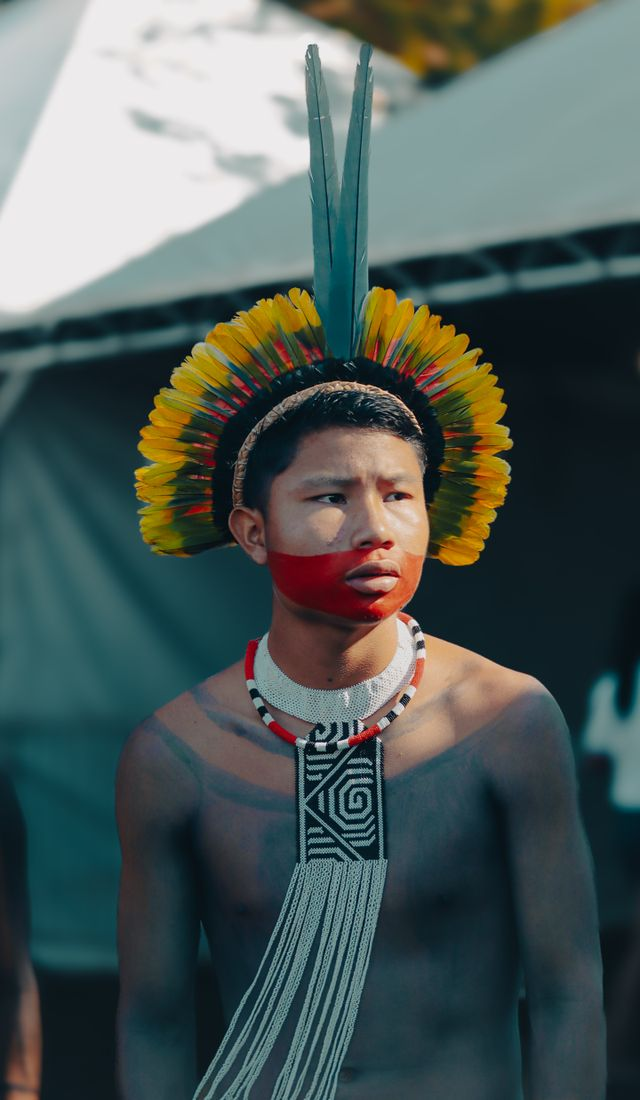
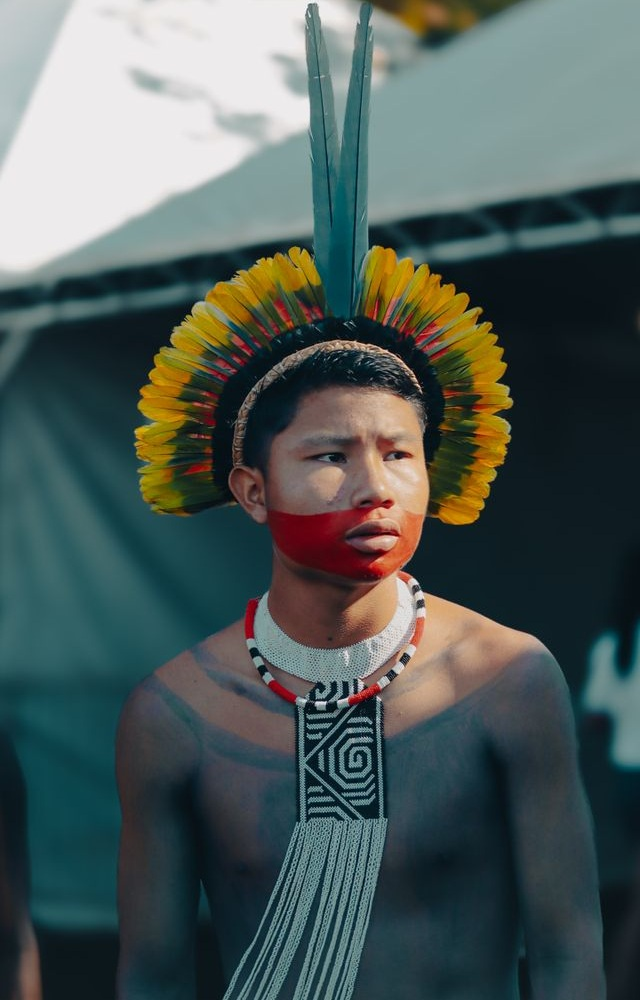
Att

diff --git a/estilos/style.css b/estilos/style.css
@@ -2,9 +2,8 @@
 
 body { 
     padding: 0;
-    margin: 0;
-    box-sizing: border-box;
     margin: 0 50px 0 50px;
+    box-sizing: border-box;
     font-family: system-ui, -apple-system, BlinkMacSystemFont, 'Segoe UI', Roboto, Oxygen, Ubuntu, Cantarell, 'Open Sans', 'Helvetica Neue', sans-serif;
 }
 
@@ -42,12 +41,14 @@ section {
 }
 
 #imagemprincipal { 
-    display: flex;
     border: 1px solid white;
     border-radius: 20px;
 }
 
 #imagemprincipal > img { 
+    max-width: 100%;
+    height: auto;
+    display: block;
     border-radius: 20px;
 }
 
@@ -80,6 +81,8 @@ section {
 }
 
 .fotosfinais > img { 
+    max-width: 100%;
+    height: auto;
     border: 1px solid lightgray;
     border-radius: 20px;
     margin-bottom: 10px;
@@ -103,42 +106,91 @@ footer {
     align-items: center;
 }
 
-@media screen and (min-width: 768px) and (max-width: 1024px) {
+@media screen and (max-width: 1300px) {
     body { 
-        margin: 0px 20px 0px 20px;
+        margin: 25px;
     }
+    header { 
+        font-size: 0.8em;
+    }
+
+    #destaquesemana { 
+        font-size: 0.8em;
+        width: 160px;
+    }
+
+    #textoprincipal > h1 { 
+        font-size: 25px;
+    }
+
+    #textoprincipal > p { 
+        font-size: 17px;
+    }
+
+    #textoprincipal > h4 { 
+        font-size: 15px;
+    }
+
+    .fotosfinais > img { 
+        width: 250px;
+        height: 350px;
+    }
+}
+
+@media screen and (max-width: 640px) {
+
+    body { 
+        margin: 10px;
+    }
+
     header { 
         font-size: 0.9em;
     }
 
     #destaquesemana { 
-        font-size: 0.9em;
-        width: 180px;
+        font-size: 12px;
+        width: 150px;
     }
 
-    #nomeprincipal, #menu {
-        margin: 0px 10px 0px 10px;
+    #textoprincipal > h1 { 
+        font-size: 22px;
     }
 
-    #imagemprincipal { 
-        content: url('../imagens/fotodestaquepequena.jpg');
-        width: 720px;
-    }
-
-    .fotosfinais img { 
-        width: 210px;
-        height: 300px;  
-    }
-
-    #textoprincipal h1 { 
-        font-size: 1.6em;
-    }
-    
     #textoprincipal > p { 
-        font-size: 1.3em;
+        font-size: 15px;
     }
 
-    #textoprincipal { 
-        font-size: 0.9em;
+    #textoprincipal > h4 { 
+        font-size: 13px;
+    }
+
+    #final > h3 { 
+        font-size: 15px;
+    }
+
+    #ultimasmaterias {
+        display: grid;
+        grid-auto-flow: row;
+        justify-content: center;
+        margin-bottom: 30px;
+    }
+
+    .fotosfinais > img {
+        width: 200px;
+        height: 300px;
+    }
+
+    .fotosfinais > h4 {
+        margin: 1px;
+        font-size: 13px;
+    }
+
+    .fotosfinais > p { 
+        font-size: 13px;
+        margin-bottom: 30px;
+    }
+
+    footer { 
+        font-size: 0.7em;
     }
 }

diff --git a/index.html b/index.html
@@ -27,7 +27,7 @@
             </div>
 
             <div id="imagemprincipal">
-                <img src="imagens/pexels-desert-morocco-adventure-tours-2165350666-40674820 (1).jpg" alt="Foto principal">
+                <img src="imagens/pexels-desert-morocco-adventure-tours-2165350666-40674820.jpg" alt="Foto principal">
             </div>
             
             <div id="textoprincipal">
